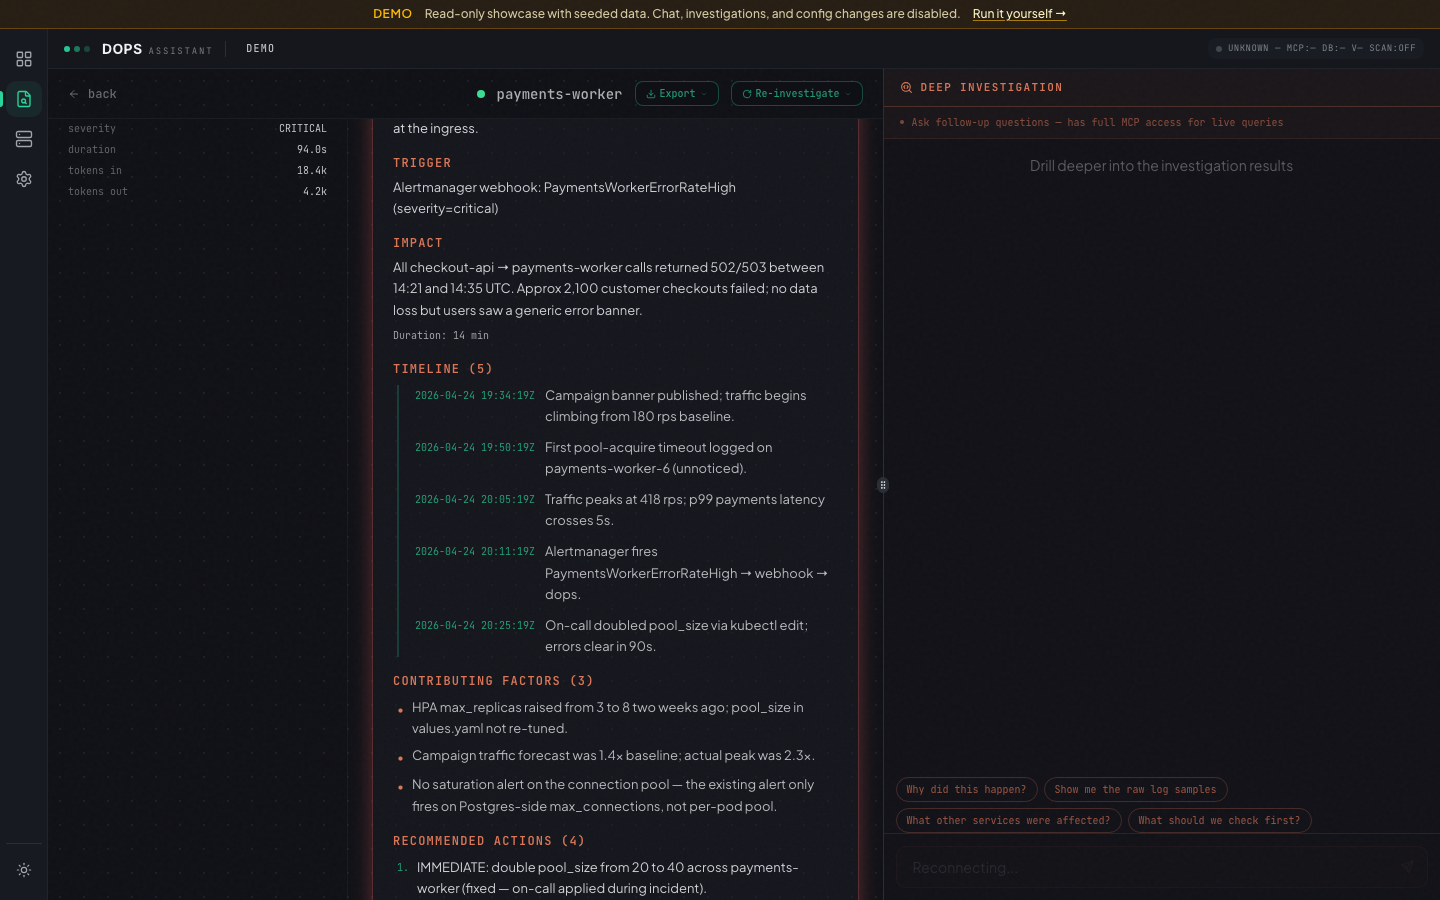
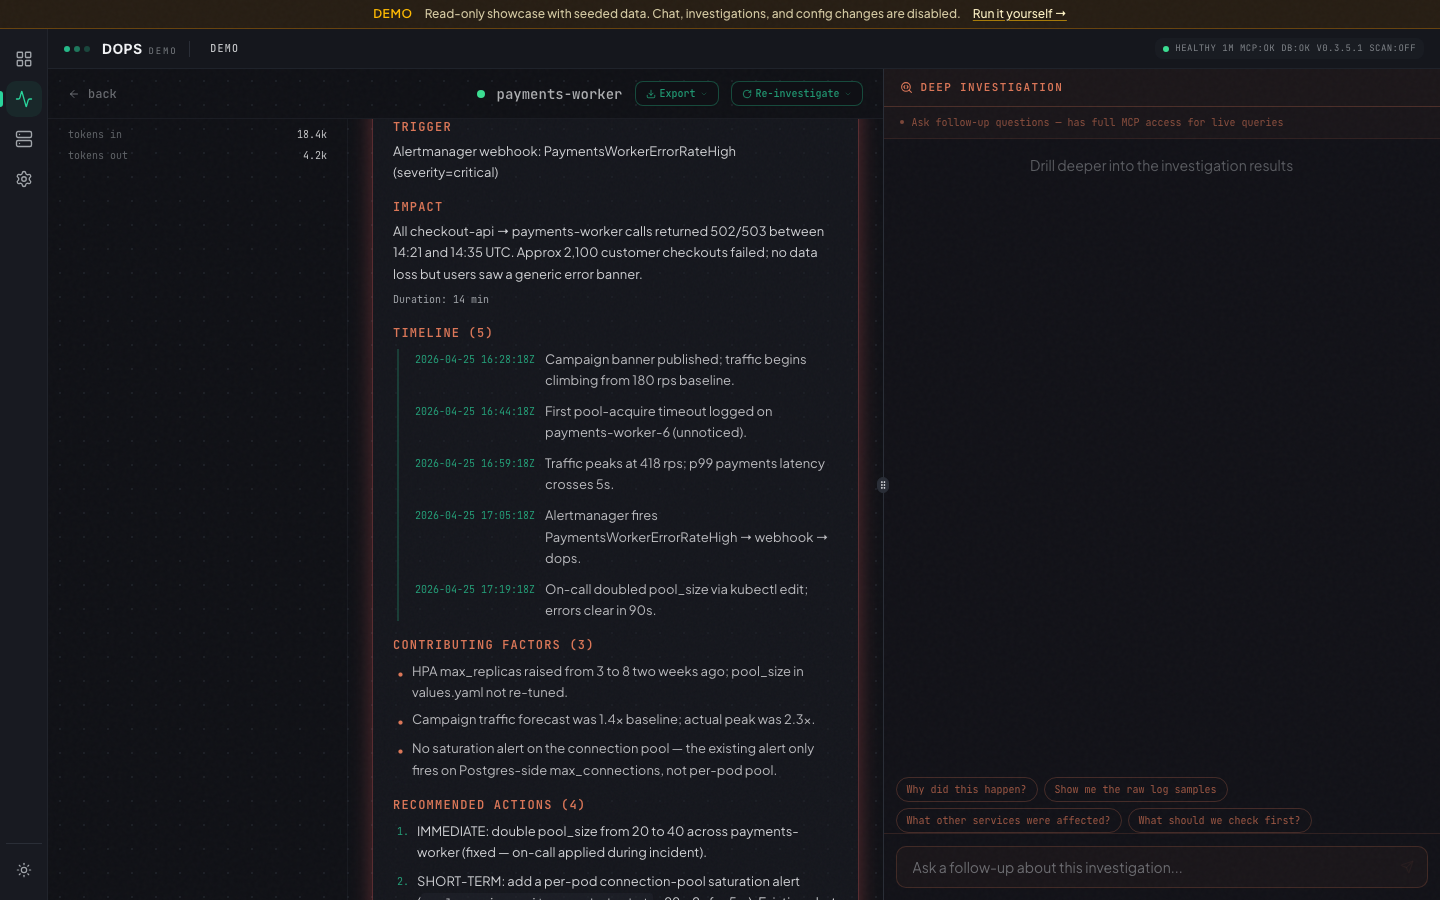
docs: refresh README + screenshots for /activity tabs
The /activity route landed across PRs #140/#143/#144/#145 — unified
Investigations / Scans / Patterns / Events under one filter-bar idiom
with URL-driven state and a 30-day persistent event feed. README and
architecture overview still described the old /investigations page only.

- Reshoot all screenshots from the freshly seeded demo. The hero +
  investigation detail bumped, plus four new tabs (03-activity-investigations,
  07-activity-scans, 08-activity-patterns, 09-activity-events).
- Rename old slugs (03-investigations-list, 07-investigation-running)
  to match the new route layout.
- Add an "Activity" section to README between Investigations and
  Notifications, and refresh the feature bullet from "Investigation
  explorer" → "Activity center".
- Update architecture-overview.md Web UI section to describe the
  /activity/:tab routes + the events table + 30-day GC.
- Seed the events table in scripts/seed-demo.ts so the new tab opens
  with a varied feed (lifecycle pairs, alert webhooks, scan completes,
  provider health crossings) instead of "no events".
- capture-screenshots.ts gets the four new tab paths.

diff --git a/scripts/seed-demo.ts b/scripts/seed-demo.ts
@@ -703,6 +703,108 @@ function main() {
   db.setSetting("notifications.slack.enabled", "false");
   db.setSetting("notifications.email.enabled", "true");
 
+  // ── Persistent events feed (powers /activity/events) ────────────────────
+  // The event log mirrors what real triggers would emit. We replay one
+  // started + completed pair per investigation, plus alert/scan/health
+  // crossings, so the tab opens with a varied feed instead of "no events".
+  const ago = (ms: number) => Date.now() - ms;
+  const evId = () => `ev_${ulid()}`;
+
+  for (const inv of invs) {
+    const startedAt = new Date(inv.createdAt + "Z").getTime();
+    db.insertEvent({
+      id: evId(),
+      ts: startedAt,
+      kind: "investigation_started",
+      severity: "info",
+      summary: `investigation started · ${inv.service}`,
+      stackId,
+      service: inv.service,
+      href: `/investigations/${inv.id}`,
+    });
+    if (inv.status === "complete" && inv.completedAt) {
+      const finishedAt = new Date(inv.completedAt + "Z").getTime();
+      const conf = inv.report?.confidenceScore != null ? Math.round(inv.report.confidenceScore * 100) : null;
+      db.insertEvent({
+        id: evId(),
+        ts: finishedAt,
+        kind: "investigation_completed",
+        severity: "success",
+        summary: conf != null
+          ? `investigation complete · ${inv.service} · confidence ${conf}%`
+          : `investigation complete · ${inv.service}`,
+        stackId,
+        service: inv.service,
+        href: `/investigations/${inv.id}`,
+      });
+    }
+  }
+
+  // Alert webhook events for the two webhook-triggered investigations
+  for (const inv of invs.filter((i) => i.source === "webhook")) {
+    const ts = new Date(inv.createdAt + "Z").getTime() - 30_000; // alert lands 30s before investigation starts
+    db.insertEvent({
+      id: evId(),
+      ts,
+      kind: "alert_received",
+      severity: "warn",
+      summary: `alert · ${inv.service.replace(/-/g, "_")}_error_rate_high · ${inv.service}`,
+      stackId,
+      service: inv.service,
+      meta: { source: "alertmanager" },
+    });
+  }
+
+  // Scan-run completion events (one clean, one with hits)
+  db.insertEvent({
+    id: evId(),
+    ts: ago(2 * HOUR + 47 * MINUTE),
+    kind: "scan_run_complete",
+    severity: "warn",
+    summary: "Scan flagged 2 services",
+    stackId,
+    href: `/scan/runs/${hitRunId}`,
+    meta: { hitsDispatched: 2, trigger: "cron" },
+  });
+  db.insertEvent({
+    id: evId(),
+    ts: ago(6 * HOUR),
+    kind: "scan_run_complete",
+    severity: "info",
+    summary: "Scan clean (15 probed, cron)",
+    stackId,
+    meta: { hitsDispatched: 0, trigger: "cron" },
+  });
+
+  // Provider health crossings — one flap into degraded, then recovery
+  db.insertEvent({
+    id: evId(),
+    ts: ago(8 * HOUR + 17 * MINUTE),
+    kind: "provider_health_changed",
+    severity: "error",
+    summary: "provider grafana: ok → error",
+    meta: { provider: "grafana", from: "ok", to: "error" },
+  });
+  db.insertEvent({
+    id: evId(),
+    ts: ago(8 * HOUR + 11 * MINUTE),
+    kind: "provider_health_changed",
+    severity: "success",
+    summary: "provider grafana: error → ok",
+    meta: { provider: "grafana", from: "error", to: "ok" },
+  });
+
+  // Manual scan trigger
+  db.insertEvent({
+    id: evId(),
+    ts: ago(45 * MINUTE),
+    kind: "scan_triggered_manually",
+    severity: "info",
+    summary: "Manual scan triggered from Operations Desk",
+    stackId,
+    meta: { trigger: "manual" },
+  });
+
   raw.close();
   db.close();
 

diff --git a/scripts/capture-screenshots.ts b/scripts/capture-screenshots.ts
@@ -86,8 +86,8 @@ async function main() {
     // Completed investigation detail (payments-worker / critical / rich RCA)
     { slug: "02-investigation-detail", path: `/investigations/${paymentsInv.id}`, pause: 1500 },
 
-    // The /investigations list page with filter bar + severity breakdown
-    { slug: "03-investigations-list", path: "/investigations", pause: 1000 },
+    // /activity/investigations — filter bar + severity breakdown + paginated rows
+    { slug: "03-activity-investigations", path: "/activity/investigations", pause: 1000 },
 
     // Service detail — Investigations tab (Metrics tab renders empty cards
     // without a real Prometheus backend; the Investigations tab shows the
@@ -100,10 +100,19 @@ async function main() {
     // Settings → Notifications (seed enables email so this section isn't empty)
     { slug: "06-notifications", path: "/settings/notifications", pause: 1000 },
 
+    // /activity/scans — paginated scan history with trigger / hits / status filters
+    { slug: "07-activity-scans", path: "/activity/scans", pause: 1000 },
+
+    // /activity/patterns — learned-pattern catalog with severity + service filters
+    { slug: "08-activity-patterns", path: "/activity/patterns", pause: 1000 },
+
+    // /activity/events — persistent feed across all four trigger sources
+    { slug: "09-activity-events", path: "/activity/events", pause: 1000 },
+
     // Frozen "in-flight" investigation — phase rail mid-stream. Useful for
     // showing the streaming UI but relatively sparse content-wise, so we
     // keep it last and treat it as optional.
-    { slug: "07-investigation-running", path: `/investigations/${runningInv.id}`, pause: 1500 },
+    { slug: "10-investigation-running", path: `/investigations/${runningInv.id}`, pause: 1500 },
   ];
 
   for (const shot of shots) {

diff --git a/README.md b/README.md
@@ -25,7 +25,7 @@ AI-powered incident response for DevOps teams. Connects to your monitoring stack
 - **Four trigger sources** — operator messages in chat, Alertmanager webhooks, health-poller transitions, and scheduled scans
 - **Notifications** — deliver every completed investigation to Slack and/or email. Per-recipient severity threshold and source allowlist (webhook / scan / poller / manual). Teams-safe HTML email
 - **Operations Desk** — live catalog of services with health chips, investigation stream, recent scan runs, and an event rail in one view
-- **Investigation explorer** — dedicated `/investigations` page with filter bar, severity breakdown, URL-driven filter state, and shareable per-investigation links
+- **Activity center** — unified `/activity` route with four tabs (Investigations, Scans, Patterns, Events). Shared filter-bar idiom, URL-driven state, paginated history, and a 30-day persistent event feed
 - **Multi-stack** — run prod, staging, and dev side-by-side in one deployment. Each stack has its own providers, services, probe rules, and investigation history
 - **Web UI + CLI** — real-time progress over WebSocket, or a terminal REPL (Ink) with tool call visibility
 - **Deploy anywhere** — single Docker image, Helm chart for Kubernetes, or run `npm run web` behind your own process manager
@@ -175,10 +175,32 @@ Every investigation gets a shareable URL, a phase rail that streams live, and a 
   <img src="docs/img/screenshots/02-investigation-detail.png" alt="Investigation detail — RCA report with timeline + evidence" width="900"/>
 </p>
 
-The dedicated `/investigations` page has filter pills for severity, status toggles, a search across service/query/root-cause, date-window shortcuts, and URL-driven filter state so bookmarks and browser history Just Work.
+## Activity
+
+Everything that happens in the system — investigations, scan runs, learned patterns, and lifecycle events — lives under a single `/activity` route, split into four tabs that share a filter-bar idiom (search, severity pills, status toggles, time-window shortcuts, URL-driven state).
+
+**Investigations** — every investigation, filterable by severity / status / service / time. URL-driven filters mean bookmarks and browser history Just Work.
 
 <p align="center">
-  <img src="docs/img/screenshots/03-investigations-list.png" alt="Investigations list — filter bar, severity pills, severity-striped rows" width="900"/>
+  <img src="docs/img/screenshots/03-activity-investigations.png" alt="Activity → Investigations — filter bar, severity pills, severity-striped rows" width="900"/>
+</p>
+
+**Scans** — every probe tick the scheduler ran, with trigger (cron / manual / webhook), status, hits dispatched, and a deep link to each run's Probe → Triage → Investigate breakdown. Click into a run from anywhere it's referenced.
+
+<p align="center">
+  <img src="docs/img/screenshots/07-activity-scans.png" alt="Activity → Scans — paginated history with trigger / hits / status filters" width="900"/>
+</p>
+
+**Patterns** — the learned-pattern catalog. Every confirmed RCA contributes to a service's pattern library, scoped by severity + service, with drill-down to the source investigation that taught it.
+
+<p align="center">
+  <img src="docs/img/screenshots/08-activity-patterns.png" alt="Activity → Patterns — learned-pattern catalog with severity + service filters" width="900"/>
+</p>
+
+**Events** — the persistent system feed. Investigation lifecycle (`investigation_started` / `_completed` / `_failed`), alert webhooks, scan-run completions, manual scan triggers, and provider health crossings — all backed by a 30-day retention window and filterable by kind / severity / service / time.
+
+<p align="center">
+  <img src="docs/img/screenshots/09-activity-events.png" alt="Activity → Events — persistent feed across all four trigger sources" width="900"/>
 </p>
 
 ## Notifications

diff --git a/docs/architecture-overview.md b/docs/architecture-overview.md
@@ -12,7 +12,7 @@ It exposes two interfaces — a web UI on port 3000 and a terminal CLI — both 
 
 ## Interfaces
 
-**Web UI** (`src/server/`) — Express server with WebSocket transport. Serves a React SPA (Vite) from `dist/web/`. Chat messages and investigation progress stream over WebSocket (`chat:stream_delta`, `investigation:phase`, `investigation:tool_call`, `scan:trigger`, `discover`). The UI is a 4-page SPA: Operations Desk, `/investigations`, `/services`, `/settings`.
+**Web UI** (`src/server/`) — Express server with WebSocket transport. Serves a React SPA (Vite) from `dist/web/`. Chat messages and investigation progress stream over WebSocket (`chat:stream_delta`, `investigation:phase`, `investigation:tool_call`, `scan:trigger`, `discover`). The UI is a 4-page SPA: Operations Desk, `/activity` (Investigations / Scans / Patterns / Events), `/services`, `/settings`.
 
 **CLI** (`src/cli/`) — Terminal REPL built with Ink (React for CLIs). Same agent and workflow stack as the web server, rendered in the terminal with tool call logging, markdown rendering, and RCA reports in bordered boxes. Note: Ink requires raw stdin and does not work inside Claude Code or other piped shells — use `npm run web` for those environments.
 
@@ -272,7 +272,11 @@ SMTP infrastructure (host, port, credentials) is in `config.yaml` (or sourced fr
 A 4-page React SPA (Vite, in `src/web/`):
 
 - **Operations Desk** (`/`) — live SOC console: health strip, service catalog with status chips, investigation log, recent scan runs with **Scan now**, event stream rail. Drilling into a service opens a tabbed detail view (overview, metrics, history, scan).
-- **Investigations** (`/investigations`) — filter bar, severity breakdown, search across service / query / root-cause, date-window shortcuts, URL-driven filter state. Per-investigation pages at `/investigations/:id` with shareable links and a live phase rail.
+- **Activity** (`/activity/:tab`) — unified history surface across four tabs:
+  - `/activity/investigations` — filter bar, severity breakdown, search across service / query / root-cause, date-window shortcuts, URL-driven filter state. Per-investigation detail at `/investigations/:id` with shareable links and a live phase rail.
+  - `/activity/scans` — paginated scan history filtered by trigger / status / hits, with deep links to each run's `/scan/runs/:id` Probe → Triage → Investigate breakdown.
+  - `/activity/patterns` — learned-pattern catalog scoped by severity + service, drill-down to the source investigation that taught each pattern.
+  - `/activity/events` — persistent system feed (`investigation_started`/`_completed`/`_failed`, `alert_received`, `scan_run_complete`, `scan_triggered_manually`, `provider_health_changed`) with 30-day retention, multi-axis filters (kind / severity / service / time). Events table is GC'd by `src/server/events-retention.ts`.
 - **Services** (`/services` and `/services/:name`) — service catalog grid + detail view (overview, history, scan override).
 - **Settings** (`/settings`) — Providers, Skills, Stacks, Scan, Notifications. Setup wizard (`SetupStepper`) guides new users through Connect Provider → Discover Services → Monitor.
 
